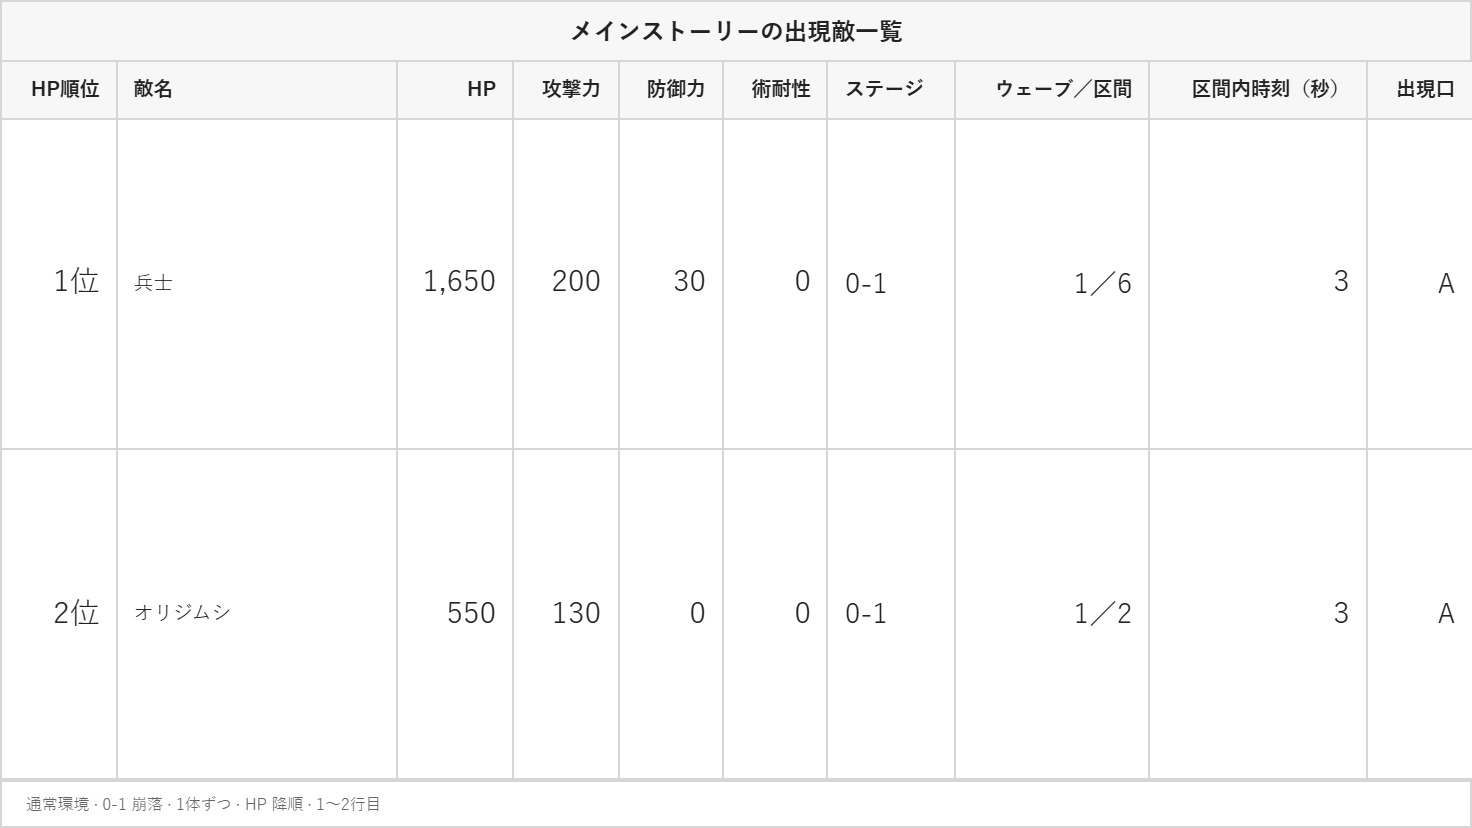
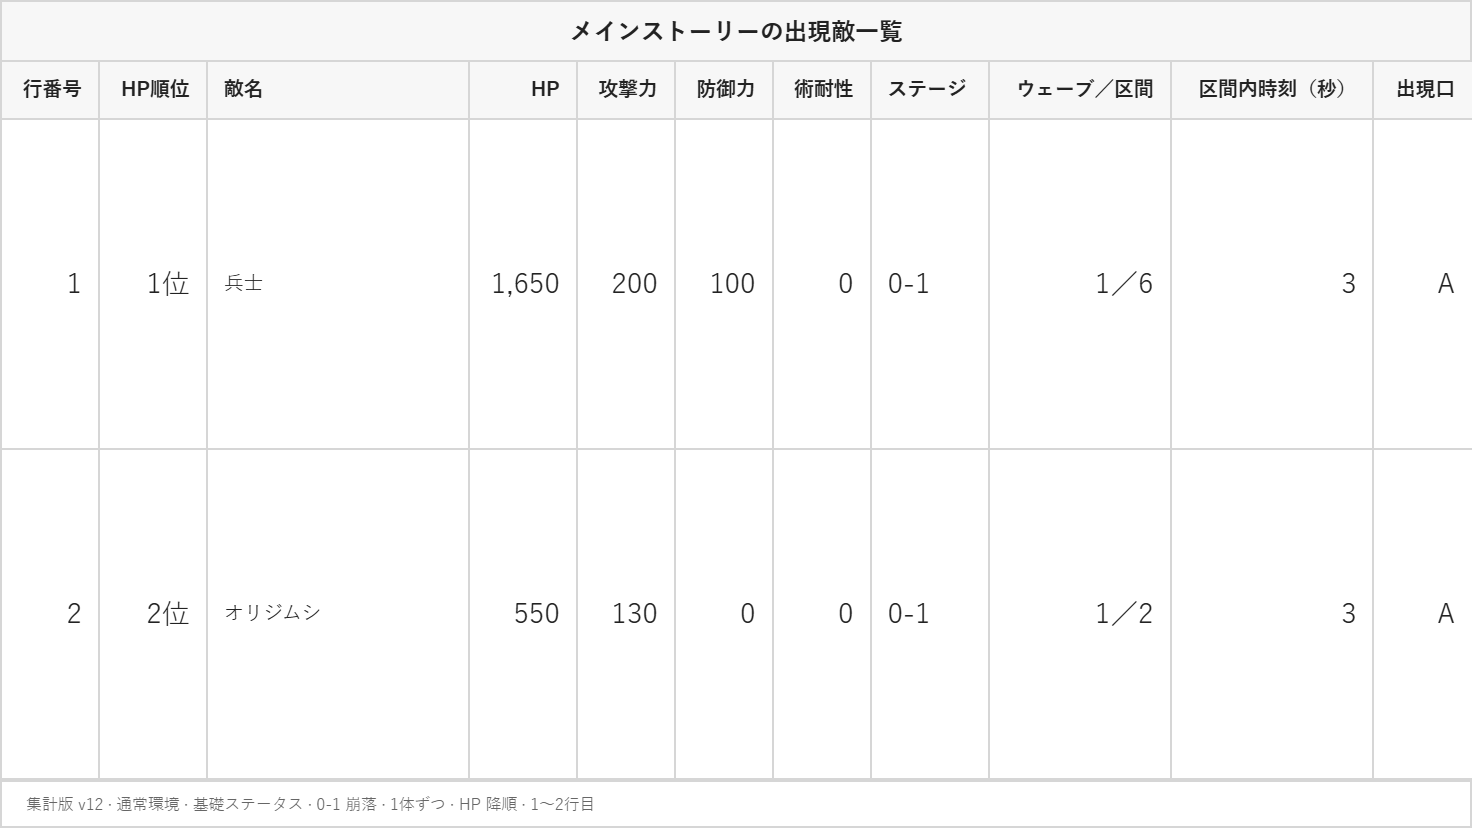
Add row numbers to the main story spawn table

diff --git a/src/components/MainStoryEnemySpawnsPage.tsx b/src/components/MainStoryEnemySpawnsPage.tsx
@@ -221,7 +221,7 @@ export function MainStoryEnemySpawnsPage() {
           title: TITLE,
           conditions: [...conditions, `${rangeLabel}行目`],
           table: <MainStorySpawnTable view={view} rows={result.rows} statusRows={stageStatuses}
-            rankLabel={rankLabel} forImage />,
+            startRowNumber={start} rankLabel={rankLabel} forImage />,
         }
       },
     })
@@ -290,7 +290,8 @@ export function MainStoryEnemySpawnsPage() {
               </output>
             </form>}
             <div className="table-wrap main-story-spawns-table-wrap" role="region" tabIndex={0} aria-label="出現敵一覧の表">
-              <MainStorySpawnTable view={view} rows={rows} statusRows={statusRows} rankLabel={rankLabel}
+              <MainStorySpawnTable view={view} rows={rows} statusRows={statusRows}
+                startRowNumber={offset + 1} rankLabel={rankLabel}
                 sorting={{ sort, onSort: changeSort }} selectedKey={jumpTarget?.key} selectedRowRef={jumpRow} />
             </div>
             {pageCount > 1 && <nav className="enemy-pagination main-story-spawns-pagination" aria-label="出現敵一覧のページ切り替え">
@@ -309,10 +310,11 @@ export function MainStoryEnemySpawnsPage() {
   </section>
 }
 
-function MainStorySpawnTable({ view, rows, statusRows, rankLabel, sorting, selectedKey, selectedRowRef, forImage = false }: {
+function MainStorySpawnTable({ view, rows, statusRows, startRowNumber, rankLabel, sorting, selectedKey, selectedRowRef, forImage = false }: {
   view: View
   rows: readonly MainStorySpawnRow[]
   statusRows: readonly MainStorySpawnList[]
+  startRowNumber: number
   rankLabel?: string
   sorting?: { sort: MainStorySpawnSort; onSort: (key: MainStorySpawnSortKey) => void }
   selectedKey?: string
@@ -322,28 +324,32 @@ function MainStorySpawnTable({ view, rows, statusRows, rankLabel, sorting, selec
   const showUnits = view === 'units'
   const columns = showUnits ? UNIT_COLUMNS : COUNT_COLUMNS
   const showRank = rankLabel !== undefined
+  const imageNumber = forImage ? true : undefined
   const style = forImage ? { '--main-story-spawns-image-row-height': `${MAIN_STORY_SPAWN_IMAGE_ROW_MIN_HEIGHT}px` } as CSSProperties : undefined
   return <table className={forImage ? 'main-story-spawns-table main-story-spawns-image-table' : 'main-story-spawns-table'}
     data-view={view} aria-label="出現敵一覧" style={style}>
-    {forImage && <colgroup>{showRank && <col />}{columns.map(([key]) => <col key={key} />)}</colgroup>}
+    {forImage && <colgroup><col />{showRank && <col />}{columns.map(([key]) => <col key={key} />)}</colgroup>}
     <thead><tr>
-      {showRank && <th scope="col" className="main-story-spawns-rank-heading">{rankLabel}順位</th>}
+      <th scope="col" className="main-story-spawns-static-heading">行番号</th>
+      {showRank && <th scope="col" className="main-story-spawns-static-heading">{rankLabel}順位</th>}
       {columns.map(([key, label]) => sorting
         ? <MainStorySpawnSortableHeader key={key} column={key} label={label} {...sorting} />
         : <th key={key} scope="col" className={textColumnClass(key)}>{label}</th>)}
     </tr></thead>
     <tbody>
-      {rows.map(row => <MainStorySpawnTableRow key={row.key} row={row} showUnits={showUnits} showRank={showRank}
+      {rows.map((row, index) => <MainStorySpawnTableRow key={row.key} row={row} rowNumber={startRowNumber + index}
+        showUnits={showUnits} showRank={showRank}
         forImage={forImage} selected={row.key === selectedKey} selectedRef={selectedRowRef} />)}
-      {statusRows.map(({ stage, status }) => status !== 'confirmed' &&
+      {statusRows.map(({ stage, status }, index) => status !== 'confirmed' &&
         <tr key={stage.id} className="main-story-spawns-status-row">
+          <td data-table-image-number={imageNumber}>{formatNumber(startRowNumber + rows.length + index)}</td>
           {showRank && <td>—</td>}
           <th scope="row" colSpan={STATS.length + 1} className="main-story-spawns-text-cell">{STAGE_STATUS[status]}</th>
           <td className="main-story-spawns-text-cell">{stage.code}</td>
           <td colSpan={columns.length - COMMON_COLUMNS.length}>—</td>
         </tr>)}
       {rows.length === 0 && statusRows.length === 0 && <tr>
-        <td className="main-story-spawns-empty" colSpan={columns.length + Number(showRank)}>該当する敵はいません</td>
+        <td className="main-story-spawns-empty" colSpan={1 + columns.length + Number(showRank)}>該当する敵はいません</td>
       </tr>}
     </tbody>
   </table>
@@ -367,8 +373,9 @@ function MainStorySpawnSortableHeader({ column, label, sort, onSort }: {
   </th>
 }
 
-function MainStorySpawnTableRow({ row, showUnits, showRank, forImage, selected, selectedRef }: {
+function MainStorySpawnTableRow({ row, rowNumber, showUnits, showRank, forImage, selected, selectedRef }: {
   row: MainStorySpawnRow
+  rowNumber: number
   showUnits: boolean
   showRank: boolean
   forImage: boolean
@@ -380,6 +387,7 @@ function MainStorySpawnTableRow({ row, showUnits, showRank, forImage, selected, 
     : `${formatNumber(row.wave)}／${formatNumber(row.fragment)}`
   const imageNumber = forImage ? true : undefined
   return <tr aria-current={selected || undefined} tabIndex={selected ? -1 : undefined} ref={selected ? selectedRef : undefined}>
+    <td data-table-image-number={imageNumber}>{formatNumber(rowNumber)}</td>
     {showRank && <td data-table-image-number={imageNumber}>
       {row.rank == null ? '—' : `${formatNumber(row.rank)}位`}
     </td>}

diff --git a/src/components/MainStoryEnemySpawnsPage.css b/src/components/MainStoryEnemySpawnsPage.css
@@ -152,7 +152,7 @@
   text-align: left;
 }
 
-.main-story-spawns-table thead .main-story-spawns-rank-heading {
+.main-story-spawns-table thead .main-story-spawns-static-heading {
   padding-inline: 8px;
 }
 

diff --git a/docs/main-story-spawn-table-image/README.md b/docs/main-story-spawn-table-image/README.md
@@ -1,11 +1,11 @@
 # メインストーリーの出現敵一覧の画像出力
 
-`#/analysis/enemies/main-spawns` の「画像を保存」で、表示中のページの行範囲を初期値として指定できる。開始行と終了行は、保存画面を開いた時点の絞り込み・並べ替え後の表を1行目から数えた番号で、指定した両端の行を含む。未確定・未取得の状態行も元の表と同じ位置で数える。
+`#/analysis/enemies/main-spawns` の画面とPNGは、左端の「行番号」に絞り込み・並べ替え後の通し番号を表示する。未確定・未取得の状態行も数える。「画像を保存」で開くダイアログの初期範囲は、表示中のページの先頭行から最終行まで。開始行と終了行に指定した両端の行を含み、たとえば26〜28行目を出力すると、PNGの行番号も26、27、28と表示する。
 
 [出現敵一覧](../../src/components/MainStoryEnemySpawnsPage.tsx)は、選択範囲の数値、列、並び順と、ステージ・敵名の絞り込みや表示形式などの条件を[共通の表画像ダイアログ](../../src/components/ComparisonTableImageDialog.tsx)に渡す。同じ表データをプレビューと2倍描画のPNGに使う。縦横比や描画上限は[テーブル画像出力の共通仕様](../../instructions/shared/table-image.md)に従う。
 
-HP・攻撃力・防御力・術耐性で並べ替えたときは、その順位を画像の左端にも出す。絞り込み後の値を使い、高い方を1位として同値は同順位にする。「1体ずつ」では1体、「体数をまとめる」ではステージごとの敵1行を1件と数える。値が未確認の行は「—」と表示する。昇降順や出力範囲を変えても、順位の計算対象は絞り込み後の全行となる。
+HP・攻撃力・防御力・術耐性で並べ替えたときは、その順位を「行番号」の隣に出す。絞り込み後の値を使い、高い方を1位として同値は同順位にする。「1体ずつ」では1体、「体数をまとめる」ではステージごとの敵1行を1件と数える。値が未確認の行は「—」と表示する。昇降順や出力範囲を変えても、順位の計算対象は絞り込み後の全行となる。
 
 ## 見本の再生成
 
-0-1「崩落」の「1体ずつ」でHP列を降順にする。「画像を保存」で開始行を1、終了行を2、縦横比を16:9にして保存する。[見本PNG](examples/0-1-hp-desc-rows-1-2-16x9.png)は1,472×828 pxで、左端の「HP順位」に兵士（HP1,650）の1位とオリジムシ（HP550）の2位を表示する。条件欄に出力範囲とHPの並べ替えが入る。
+0-1「崩落」の「1体ずつ」でHP列を降順にする。「画像を保存」で開始行を1、終了行を2、縦横比を16:9にして保存する。[見本PNG](examples/0-1-hp-desc-rows-1-2-16x9.png)の行番号1と2に、兵士（HP1,650、1位）とオリジムシ（HP550、2位）を表示する。条件欄に集計版 v12、出力範囲とHPの並べ替えが入る。
